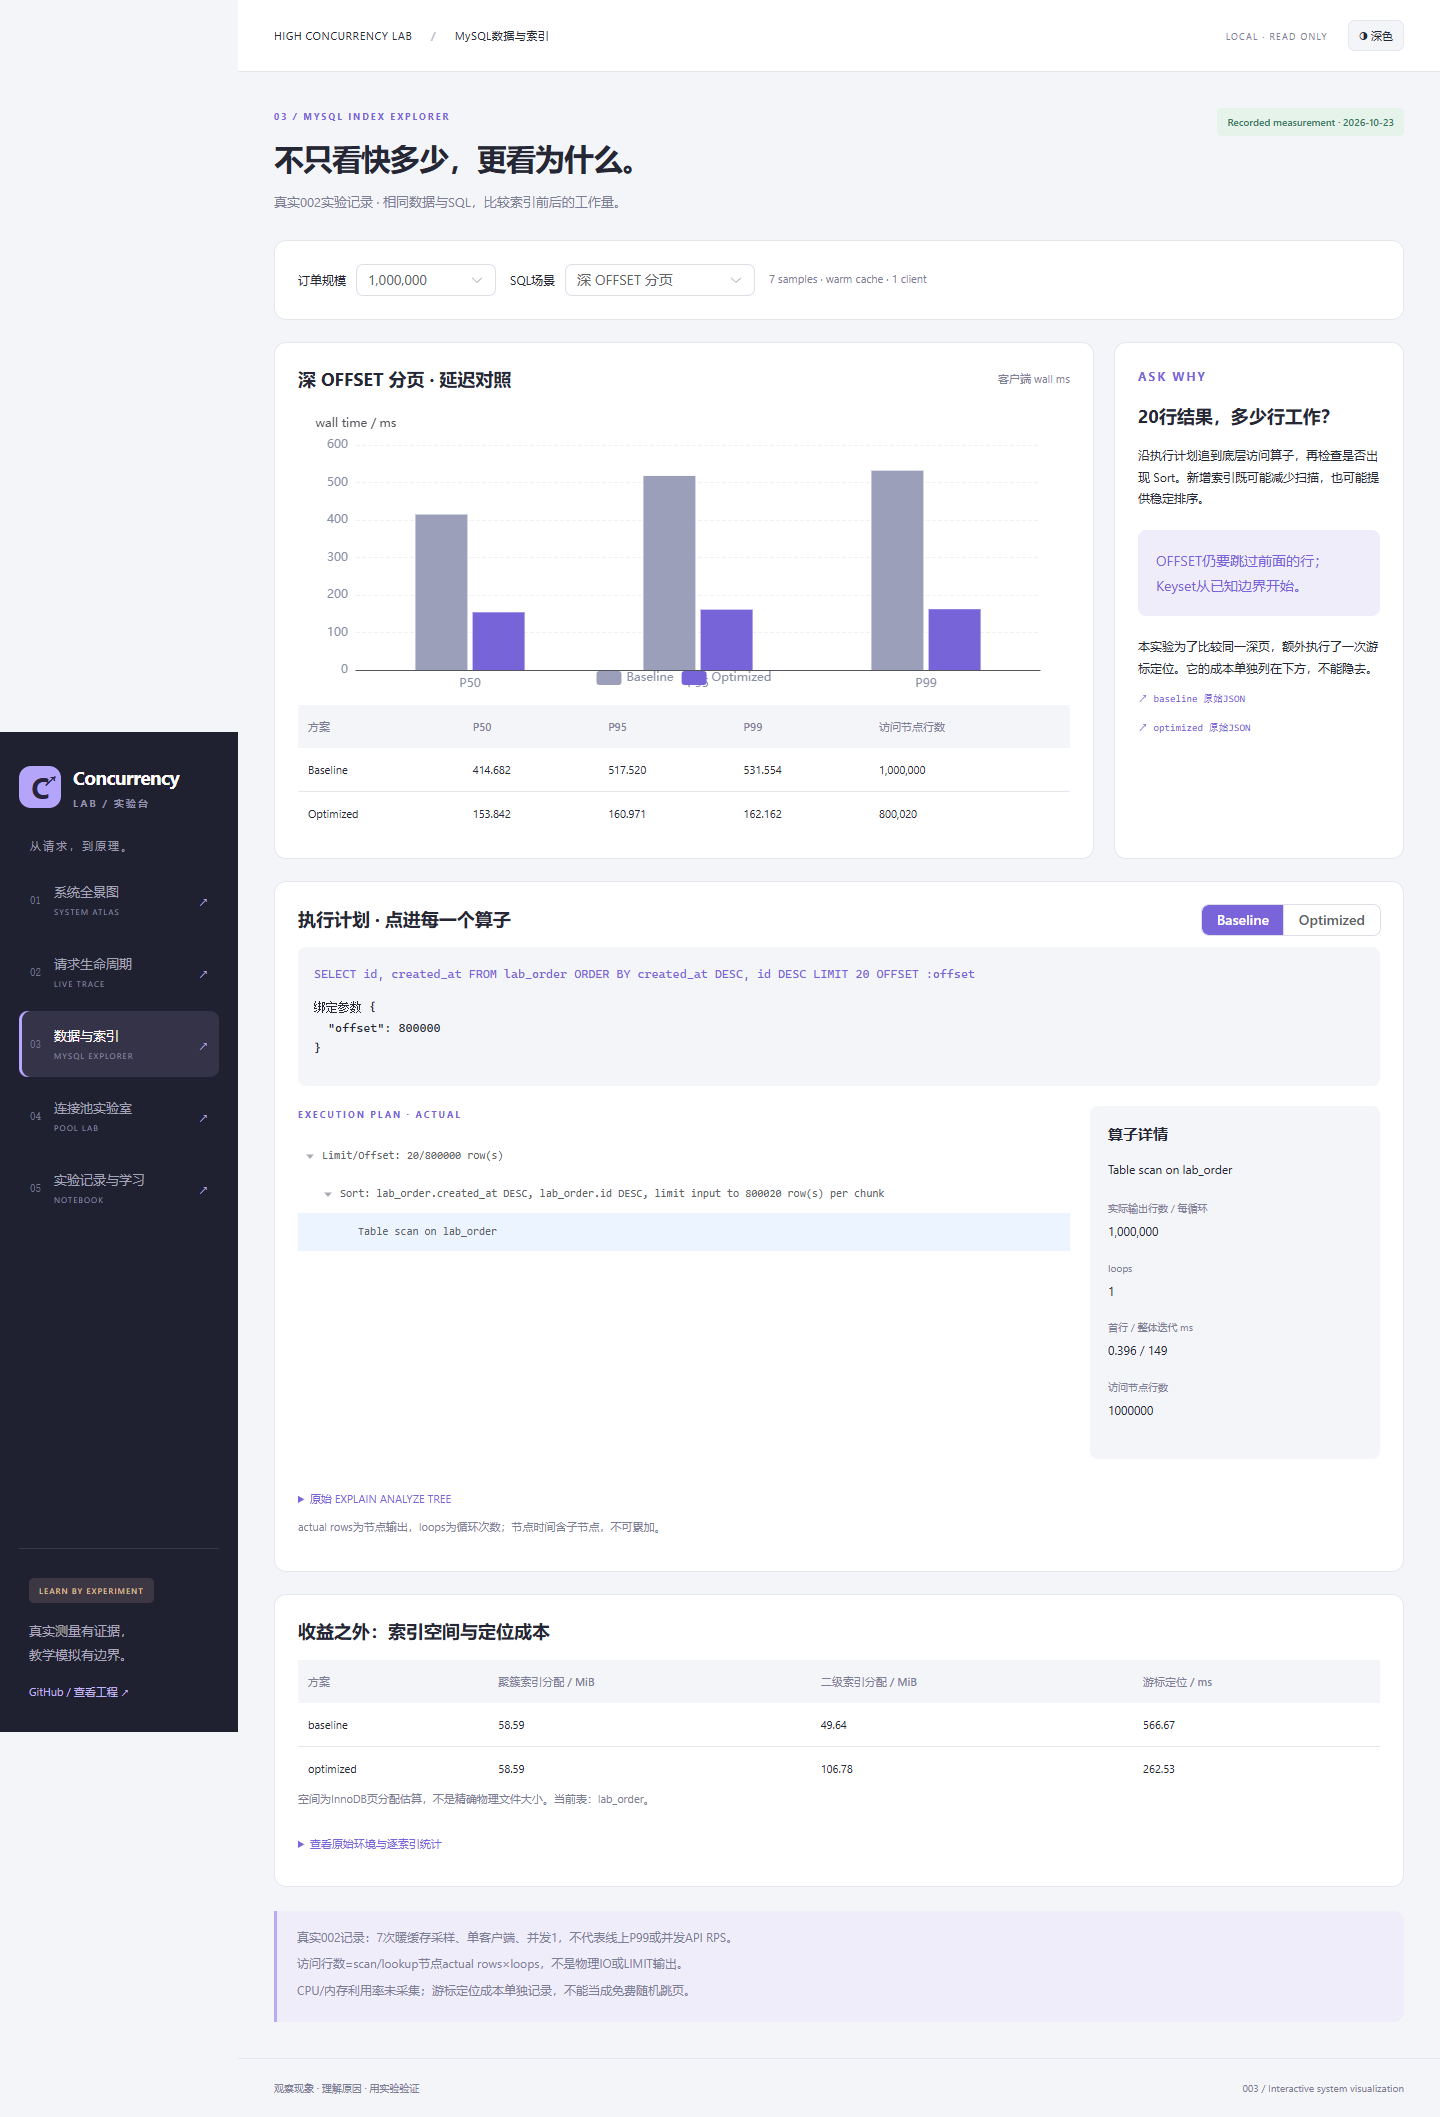
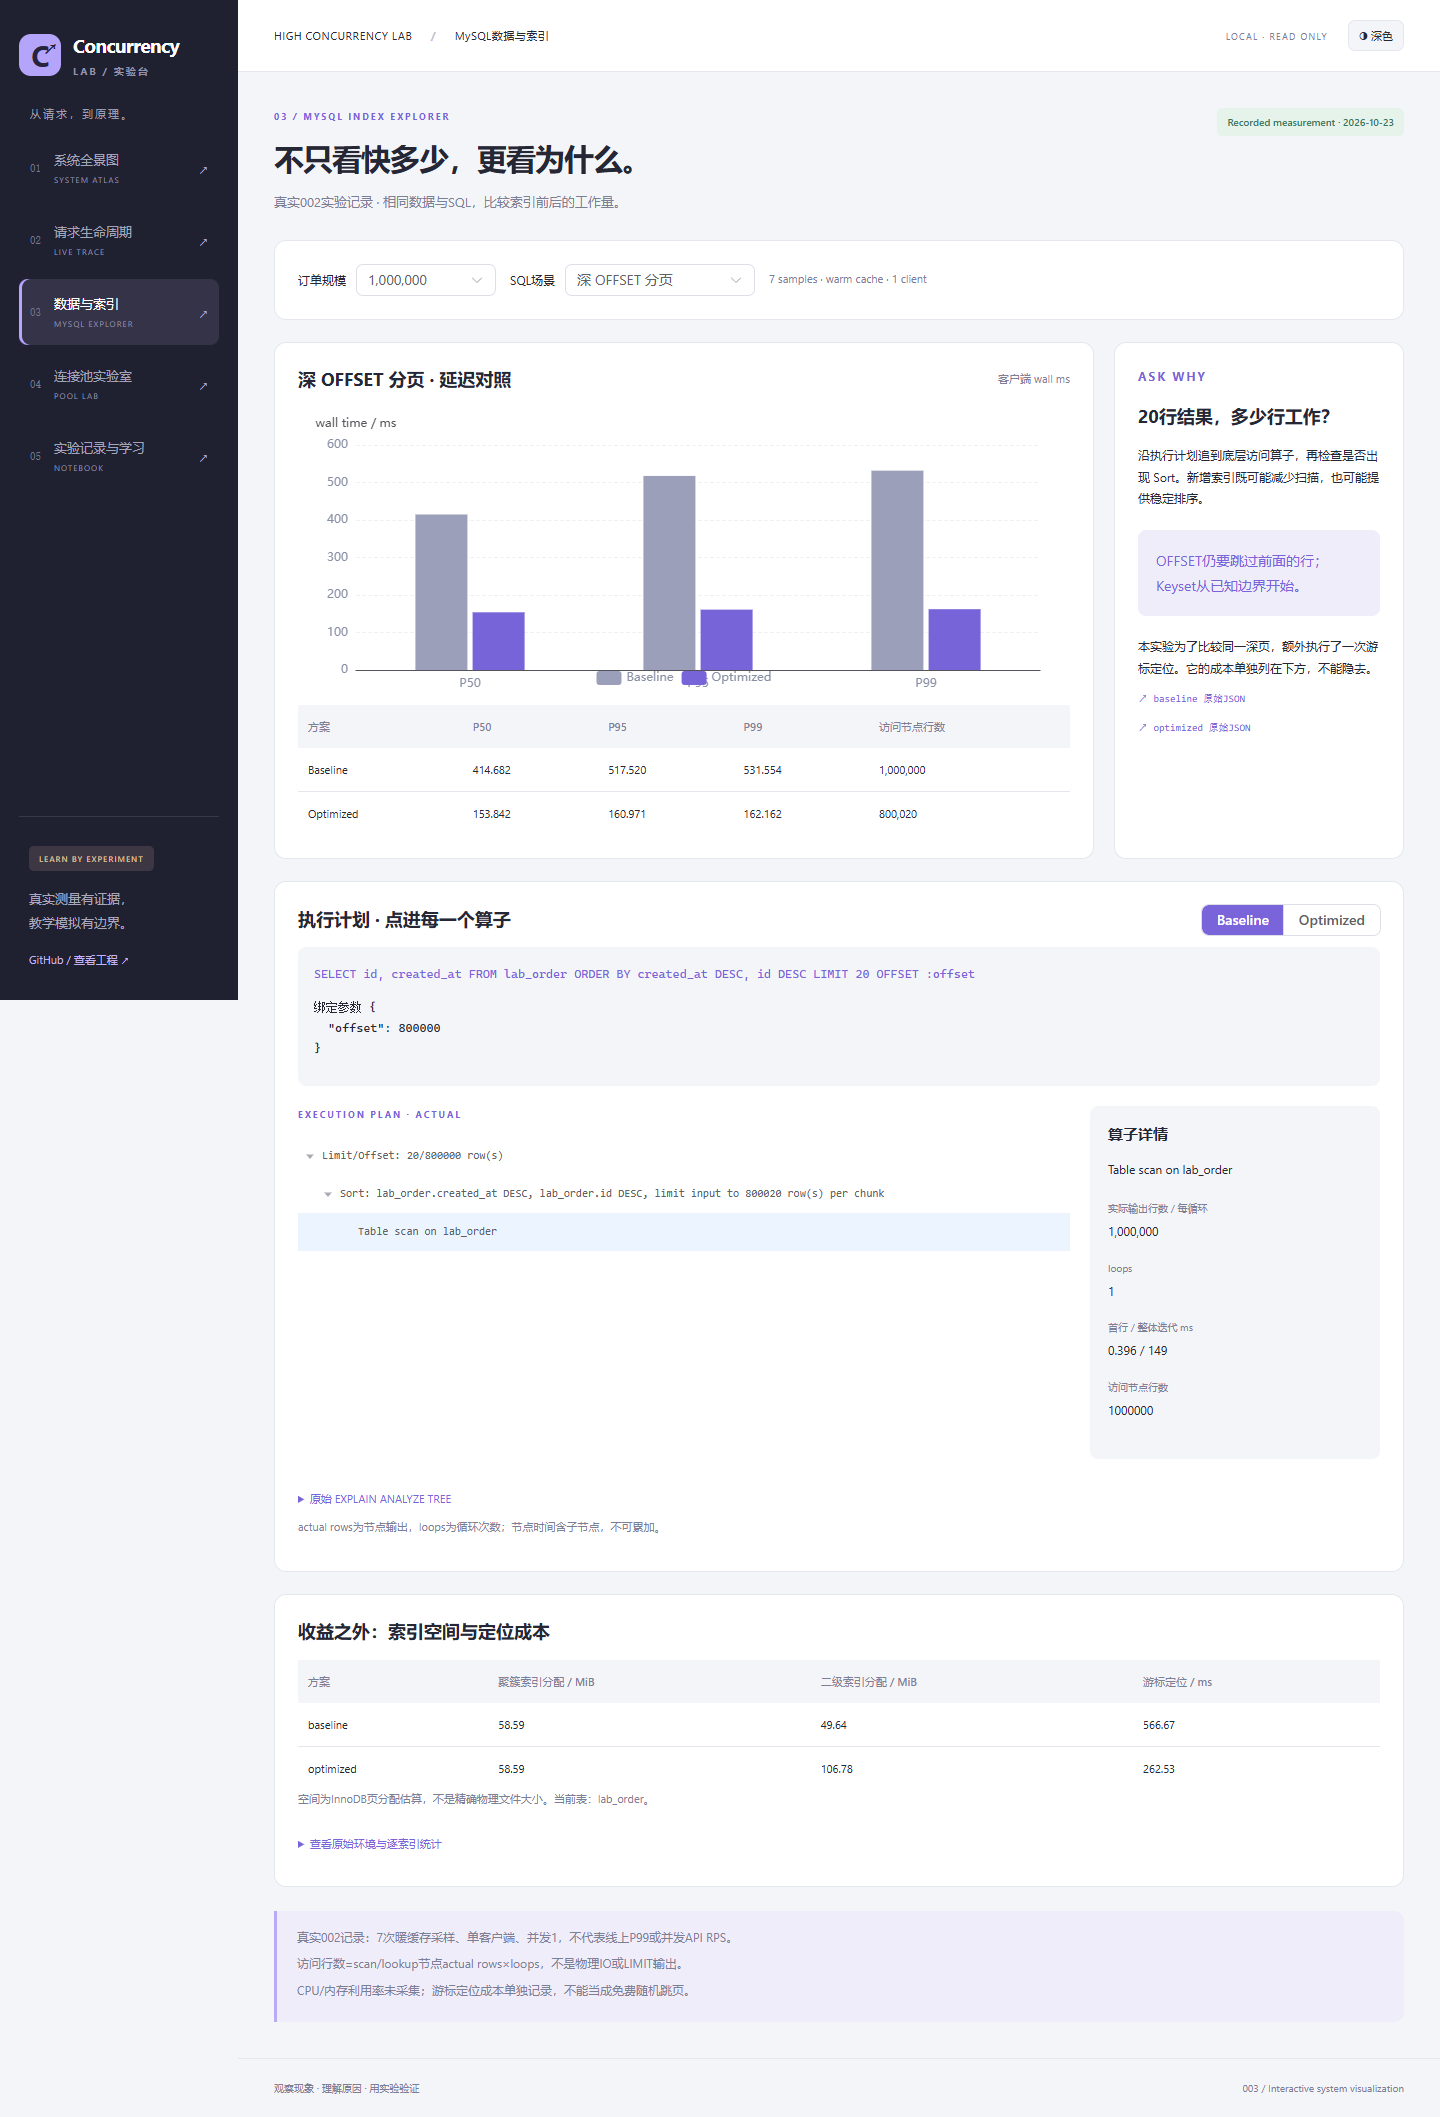
fix: show concurrent health probes as parallel branches (#3)

Changed region(s): [[0.0, 0.0, 0.1875, 0.8418]]

diff --git a/frontend/e2e/platform.spec.ts b/frontend/e2e/platform.spec.ts
@@ -8,6 +8,7 @@ test('real architecture, recorded data, live health and pool simulation', async 
   await expect(page.locator('.inspector')).toContainText('EXPLAIN ANALYZE')
   await page.getByRole('button', { name: '查看实际初始化记录' }).click()
   await expect(page.locator('.startup')).toContainText('lazy')
+  await page.evaluate(() => window.scrollTo(0, 0))
   await page.screenshot({
     path: '../docs/experiments/003-interactive-system-visualization/architecture.png',
     fullPage: true,
@@ -20,6 +21,7 @@ test('real architecture, recorded data, live health and pool simulation', async 
     .filter({ hasText: 'Table scan on lab_order' })
     .click()
   await expect(page.locator('.plan-layout .inspector')).toContainText('1,000,000')
+  await page.evaluate(() => window.scrollTo(0, 0))
   await page.screenshot({
     path: '../docs/experiments/003-interactive-system-visualization/database.png',
     fullPage: true,
@@ -27,8 +29,11 @@ test('real architecture, recorded data, live health and pool simulation', async 
   await page.goto('/trace')
   await page.getByRole('button', { name: '采集真实健康请求' }).click()
   await expect(page.getByTestId('http-status')).toHaveText('200')
+  await expect(page.getByTestId('parallel-probes')).toContainText('并发探针')
+  await expect(page.getByTestId('parallel-probes').locator('.lane-node')).toHaveCount(2)
   await expect(page.locator('.page-heading .badge.measured')).toContainText('Live Trace')
   await page.getByRole('button', { name: '单步', exact: true }).click()
+  await page.evaluate(() => window.scrollTo(0, 0))
   await page.screenshot({
     path: '../docs/experiments/003-interactive-system-visualization/live-trace.png',
     fullPage: true,

diff --git a/frontend/src/views/TraceView.vue b/frontend/src/views/TraceView.vue
@@ -62,7 +62,8 @@ const events = computed<TraceEvent[]>(() => {
   length = computed(() => events.value.length)
 const { index, playing, next, play, pause, reset } = usePlayback(length)
 const selected = computed(() => events.value[index.value])
-const components = ['client', 'router', 'service', 'mysql', 'redis']
+const components = ['client', 'router', 'service']
+const dependencies = ['mysql', 'redis']
 const sourcePath = computed(() => {
   const name = selected.value?.component
   return name === 'client'
@@ -141,6 +142,18 @@ function choose(event: TraceEvent) {
       >
         <span class="dot" :class="state(component)"></span>{{ component
         }}<small>{{ state(component) === 'idle' ? '待回放' : state(component) }}</small>
+      </div>
+      <div class="dependency-branch" data-testid="parallel-probes">
+        <span class="branch-caption">MySQL ∥ Redis · 并发探针</span>
+        <div
+          v-for="component in dependencies"
+          :key="component"
+          class="lane-node"
+          :class="state(component)"
+        >
+          <span class="dot" :class="state(component)"></span>{{ component }}
+          <small>{{ state(component) === 'idle' ? '待回放' : state(component) }}</small>
+        </div>
       </div>
     </div>
     <div class="toolbar">

diff --git a/frontend/src/style.css b/frontend/src/style.css
@@ -948,3 +948,21 @@ summary {
     margin-left: 19px;
   }
 }
+
+.dependency-branch {
+  flex: 2;
+  display: flex;
+  gap: 12px;
+  position: relative;
+  min-width: 250px;
+}
+.branch-caption {
+  position: absolute;
+  top: -19px;
+  left: 3px;
+  color: var(--purple);
+  font-size: 10px;
+}
+.dependency-branch .lane-node::after {
+  display: none;
+}

diff --git a/specs/003-interactive-system-visualization/validation.md b/specs/003-interactive-system-visualization/validation.md
@@ -31,3 +31,8 @@ See PR checks for exact remote commit outcomes; local checks alone do not imply 
 ## Converge
 2026-10-24：已逐项评估10FR、5SC、11宪章原则、Plan设计与10Tasks。实现范围内无missing/partial/contradicts/unrequested代码缺口，不追加空Convergence阶段。前端/后端/真实浏览器及容器验证已执行，原002结果保持不变。
 交付PR：[PR#2](https://github.com/wanglizhi9264/high-concurrency-lab/pull/2)。远端CI与合并状态以该PR最终记录为准；此文档更新在合并前提交，不能把本地通过视作远端已通过。所有代码只在独立feature分支提交，main通过受保护PR合并。
+
+## Post-merge visual convergence correction
+Visual review found F1 (HIGH, contradicts FR-003): the lifecycle component lane used a mysql→redis arrow despite actual probes being concurrent. F2 (MEDIUM, partial FR-010): a long-page screenshot taken while scrolled placed the fixed sidebar lower in the stitched image. Appended T011/T012 under Phase7, then implemented on fix/003-parallel-trace-layout; no main edits.
+Trace now shows an explicit MySQL ∥ Redis parallel group with no serial arrow between dependency cards. Screenshot collection scrolls to top before full-page capture. E2E asserts both parallel dependency nodes and actual health200. Stable rerun after HMR settled: npm check passed and2real-browser E2E tests passed. Screenshots re-captured from real pages, not image-edited. Backend/002data/API contracts unchanged. Initial smoke while source HMR was updating did not retain HTTP status; final stable run passed, and required remote CI is checked again before merge.
+Final Converge rechecks all10FR/5SC/11principles and12tasks; no remaining actionable gaps. Publication is via a separate protected-branch correction PR after required checks.

diff --git a/specs/003-interactive-system-visualization/tasks.md b/specs/003-interactive-system-visualization/tasks.md
@@ -20,3 +20,7 @@ Input spec/plan/research/data-model/contracts。测试用户明确要求。
 顺序T001->T010；先可信API再交互，先单元/组件后真实浏览器。研究按官方Plan技能委派；实现顺序进行，浏览器QA与截图依赖真实服务。
 ## Parallel opportunities
 API schema与前端类型可在合同稳定后并行编辑；本轮不委派实现。保留原quality/integration门禁，新增frontend检查；不修改002原始JSON。
+
+## Phase7: Convergence
+- [X] T011 修复生命周期页并发可视化per FR-003（contradicts）：frontend/src/views/TraceView.vue和style.css中将MySQL/Redis显示为明确并行探针分组；前置T010；完成标准：无MySQL→Redis串行箭头；验证E2E分组与真实200。
+- [X] T012 修复真实长页截图的滚动上下文per FR-010（partial）：frontend/e2e/platform.spec.ts截图前回到页顶、重采三张截图；前置T011；完成标准：固定侧栏位于顶部，源码/数据不变；验证实际截图及独立修复PR CI。
